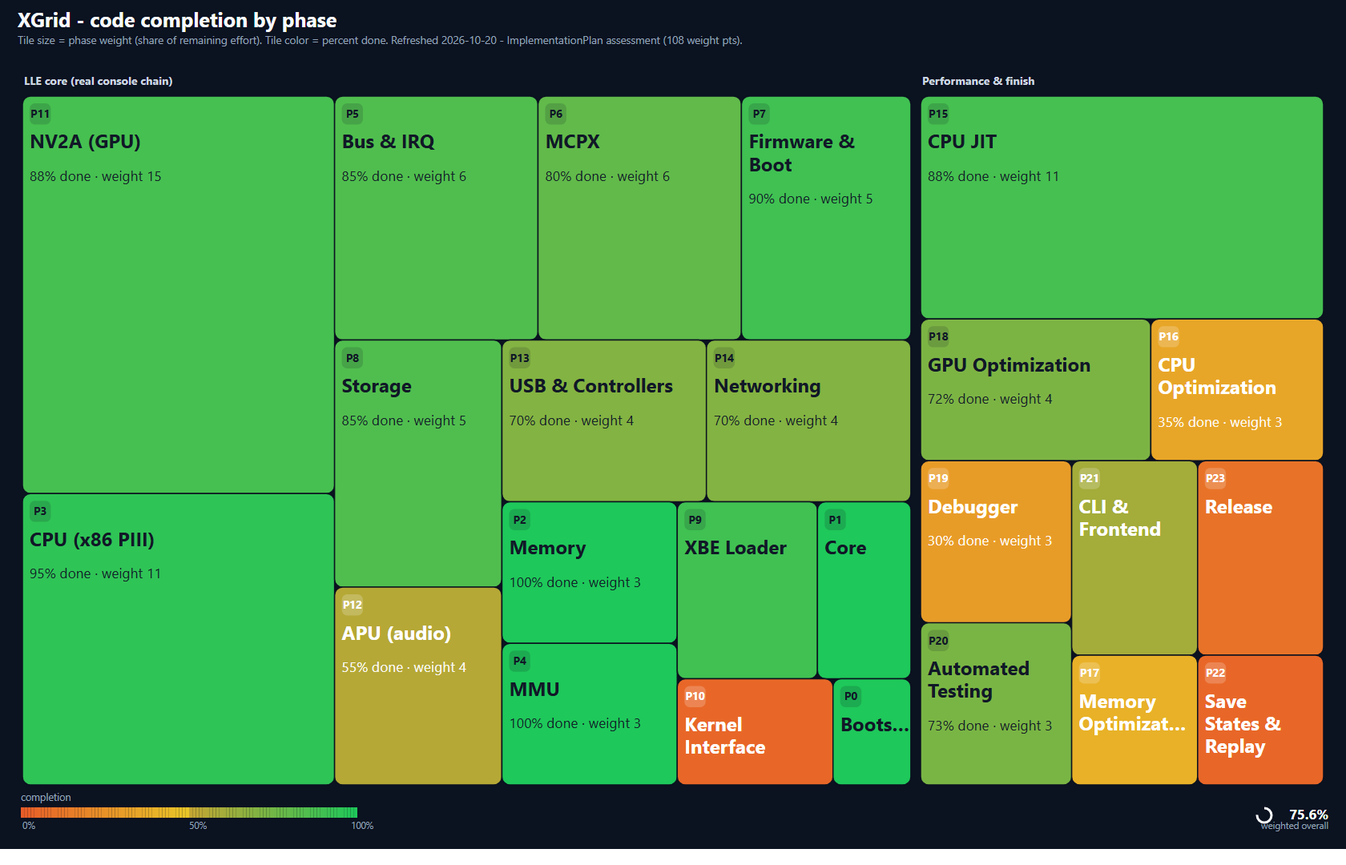
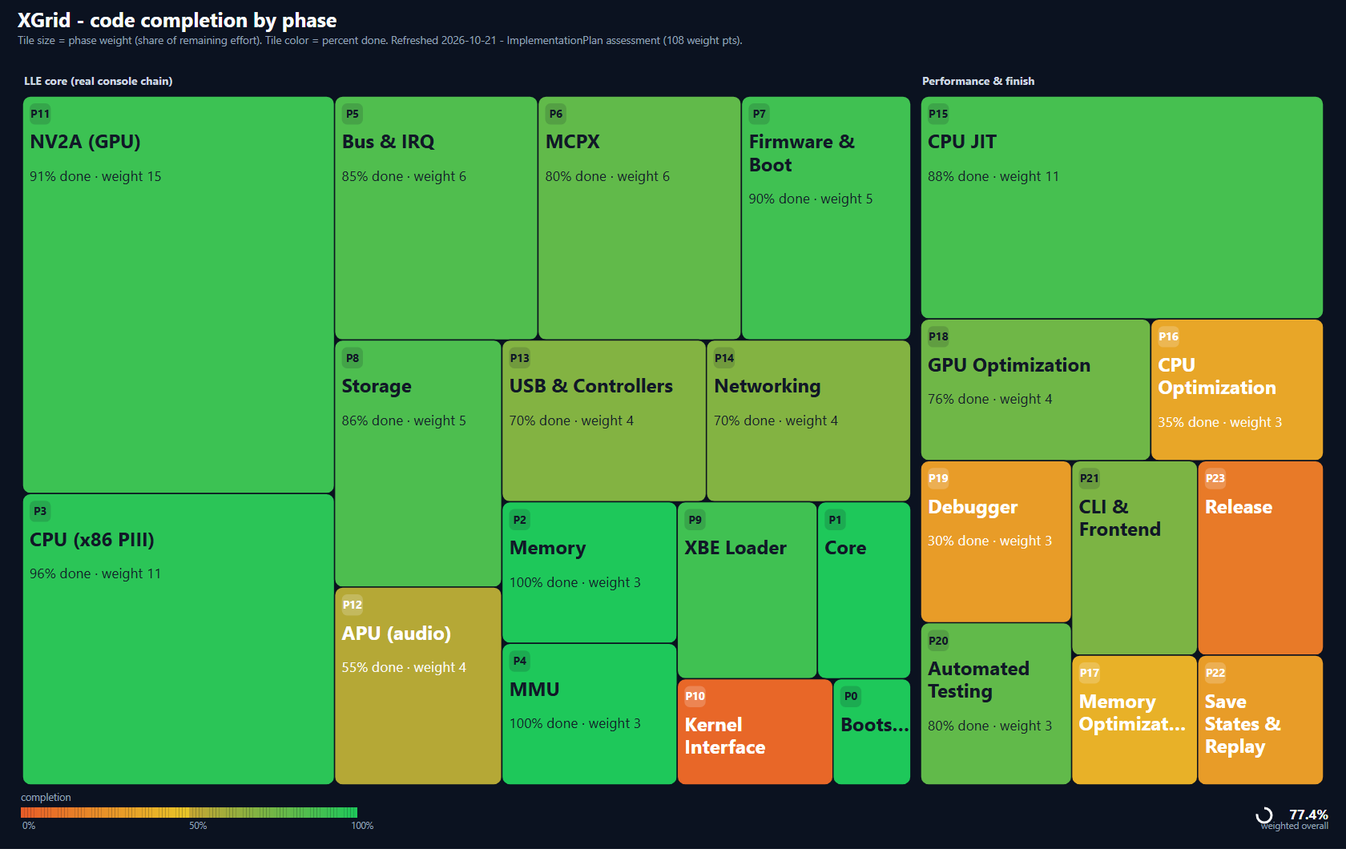
docs: refresh the completion assessment and treemap (77.4%, 1812 tests)

Changed region(s): [[0.7738, 0.5194, 0.9905, 0.9167]]

diff --git a/tools/completion-graph/completion-treemap.html b/tools/completion-graph/completion-treemap.html
@@ -12,22 +12,22 @@
 <svg xmlns='http://www.w3.org/2000/svg' width='1680' height='1060' viewBox='0 0 1680 1060' font-family='Segoe UI, Segoe UI Emoji, sans-serif'>
 <rect width='1680' height='1060' fill='#0B1220'/>
 <text x='22' y='34' font-size='25' font-weight='700' fill='#F8FAFC'>XGrid - code completion by phase</text>
-<text x='22' y='55' font-size='13.5' fill='#94A3B8'>Tile size = phase weight (share of remaining effort). Tile color = percent done. Refreshed 2026-10-20 - ImplementationPlan assessment (108 weight pts).</text>
+<text x='22' y='55' font-size='13.5' fill='#94A3B8'>Tile size = phase weight (share of remaining effort). Tile color = percent done. Refreshed 2026-10-21 - ImplementationPlan assessment (108 weight pts).</text>
 <text x='30' y='106' font-size='14' font-weight='700' fill='#CBD5E1'>LLE core (real console chain)</text>
 <text x='1151' y='106' font-size='14' font-weight='700' fill='#CBD5E1'>Performance &amp; finish</text>
-<g class='tile' data-p='11' data-name='NV2A (GPU)' data-done='88' data-weight='15'>
-<rect x='28' y='120' width='389.6' height='496.2' rx='10' fill='#46C050' stroke='#0B1220' stroke-width='1.5'/>
+<g class='tile' data-p='11' data-name='NV2A (GPU)' data-done='91' data-weight='15'>
+<rect x='28' y='120' width='389.6' height='496.2' rx='10' fill='#3CC253' stroke='#0B1220' stroke-width='1.5'/>
 <rect x='37' y='129' width='26.4' height='26.4' rx='6.6' fill='rgba(17,24,39,0.16)'/>
 <text x='50.2' y='147' font-size='13.7' font-weight='700' fill='#111827' text-anchor='middle'>P11</text>
 <text x='37' y='185.4' font-size='24' font-weight='700' fill='#111827'>NV2A (GPU)</text>
-<text x='37' y='226.1' font-size='17.3' opacity='0.94' fill='#111827'>88% done &#183; weight 15</text>
+<text x='37' y='226.1' font-size='17.3' opacity='0.94' fill='#111827'>91% done &#183; weight 15</text>
 </g>
-<g class='tile' data-p='3' data-name='CPU (x86 PIII)' data-done='95' data-weight='11'>
-<rect x='28' y='616.2' width='389.6' height='363.8' rx='10' fill='#2FC456' stroke='#0B1220' stroke-width='1.5'/>
+<g class='tile' data-p='3' data-name='CPU (x86 PIII)' data-done='96' data-weight='11'>
+<rect x='28' y='616.2' width='389.6' height='363.8' rx='10' fill='#2BC557' stroke='#0B1220' stroke-width='1.5'/>
 <rect x='37' y='625.2' width='26.4' height='26.4' rx='6.6' fill='rgba(17,24,39,0.16)'/>
 <text x='50.2' y='643.1' font-size='13.7' font-weight='700' fill='#111827' text-anchor='middle'>P3</text>
 <text x='37' y='681.6' font-size='24' font-weight='700' fill='#111827'>CPU (x86 PIII)</text>
-<text x='37' y='722.2' font-size='17.3' opacity='0.94' fill='#111827'>95% done &#183; weight 11</text>
+<text x='37' y='722.2' font-size='17.3' opacity='0.94' fill='#111827'>96% done &#183; weight 11</text>
 </g>
 <g class='tile' data-p='5' data-name='Bus &amp; IRQ' data-done='85' data-weight='6'>
 <rect x='417.6' y='120' width='253.9' height='304.6' rx='10' fill='#50BE4E' stroke='#0B1220' stroke-width='1.5'/>
@@ -51,12 +51,12 @@
 <text x='934.4' y='213.7' font-size='24' font-weight='700' fill='#111827'>Boot</text>
 <text x='934.4' y='254.4' font-size='17.3' opacity='0.94' fill='#111827'>90% done &#183; weight 5</text>
 </g>
-<g class='tile' data-p='8' data-name='Storage' data-done='85' data-weight='5'>
-<rect x='417.6' y='424.6' width='208.8' height='308.6' rx='10' fill='#50BE4E' stroke='#0B1220' stroke-width='1.5'/>
+<g class='tile' data-p='8' data-name='Storage' data-done='86' data-weight='5'>
+<rect x='417.6' y='424.6' width='208.8' height='308.6' rx='10' fill='#4DBE4F' stroke='#0B1220' stroke-width='1.5'/>
 <rect x='426.6' y='433.6' width='26.4' height='26.4' rx='6.6' fill='rgba(17,24,39,0.16)'/>
 <text x='439.8' y='451.5' font-size='13.7' font-weight='700' fill='#111827' text-anchor='middle'>P8</text>
 <text x='426.6' y='490' font-size='24' font-weight='700' fill='#111827'>Storage</text>
-<text x='426.6' y='530.7' font-size='17.3' opacity='0.94' fill='#111827'>85% done &#183; weight 5</text>
+<text x='426.6' y='530.7' font-size='17.3' opacity='0.94' fill='#111827'>86% done &#183; weight 5</text>
 </g>
 <g class='tile' data-p='12' data-name='APU (audio)' data-done='55' data-weight='4'>
 <rect x='417.6' y='733.1' width='208.8' height='246.9' rx='10' fill='#B5A836' stroke='#0B1220' stroke-width='1.5'/>
@@ -125,12 +125,12 @@
 <text x='1158' y='185.4' font-size='24' font-weight='700' fill='#111827'>CPU JIT</text>
 <text x='1158' y='226.1' font-size='17.3' opacity='0.94' fill='#111827'>88% done &#183; weight 11</text>
 </g>
-<g class='tile' data-p='18' data-name='GPU Optimization' data-done='72' data-weight='4'>
-<rect x='1149' y='398.2' width='287.4' height='177.1' rx='10' fill='#7CB444' stroke='#0B1220' stroke-width='1.5'/>
+<g class='tile' data-p='18' data-name='GPU Optimization' data-done='76' data-weight='4'>
+<rect x='1149' y='398.2' width='287.4' height='177.1' rx='10' fill='#6FB747' stroke='#0B1220' stroke-width='1.5'/>
 <rect x='1158' y='407.2' width='26.4' height='26.4' rx='6.6' fill='rgba(17,24,39,0.16)'/>
 <text x='1171.2' y='425.2' font-size='13.7' font-weight='700' fill='#111827' text-anchor='middle'>P18</text>
 <text x='1158' y='463.6' font-size='24' font-weight='700' fill='#111827'>GPU Optimization</text>
-<text x='1158' y='504.3' font-size='17.3' opacity='0.94' fill='#111827'>72% done &#183; weight 4</text>
+<text x='1158' y='504.3' font-size='17.3' opacity='0.94' fill='#111827'>76% done &#183; weight 4</text>
 </g>
 <g class='tile' data-p='16' data-name='CPU Optimization' data-done='35' data-weight='3'>
 <rect x='1436.4' y='398.2' width='215.6' height='177.1' rx='10' fill='#E8A628' stroke='#0B1220' stroke-width='1.5'/>
@@ -147,23 +147,23 @@
 <text x='1158' y='640.7' font-size='24' font-weight='700' fill='#FFFFFF'>Debugger</text>
 <text x='1158' y='681.4' font-size='17.3' opacity='0.94' fill='#FFFFFF'>30% done &#183; weight 3</text>
 </g>
-<g class='tile' data-p='20' data-name='Automated Testing' data-done='73' data-weight='3'>
-<rect x='1149' y='777.6' width='188.6' height='202.4' rx='10' fill='#79B544' stroke='#0B1220' stroke-width='1.5'/>
+<g class='tile' data-p='20' data-name='Automated Testing' data-done='80' data-weight='3'>
+<rect x='1149' y='777.6' width='188.6' height='202.4' rx='10' fill='#61BA4A' stroke='#0B1220' stroke-width='1.5'/>
 <rect x='1158' y='786.6' width='26.4' height='26.4' rx='6.6' fill='rgba(17,24,39,0.16)'/>
 <text x='1171.2' y='804.6' font-size='13.7' font-weight='700' fill='#111827' text-anchor='middle'>P20</text>
 <text x='1158' y='843' font-size='24' font-weight='700' fill='#111827'>Automated</text>
 <text x='1158' y='871.4' font-size='24' font-weight='700' fill='#111827'>Testing</text>
-<text x='1158' y='912.1' font-size='17.3' opacity='0.94' fill='#111827'>73% done &#183; weight 3</text>
+<text x='1158' y='912.1' font-size='17.3' opacity='0.94' fill='#111827'>80% done &#183; weight 3</text>
 </g>
-<g class='tile' data-p='21' data-name='CLI &amp; Frontend' data-done='60' data-weight='3'>
-<rect x='1337.6' y='575.3' width='157.2' height='242.8' rx='10' fill='#A4AC3A' stroke='#0B1220' stroke-width='1.5'/>
-<rect x='1346.6' y='584.3' width='26.4' height='26.4' rx='6.6' fill='rgba(255,255,255,0.20)'/>
-<text x='1359.8' y='602.2' font-size='13.7' font-weight='700' fill='#FFFFFF' text-anchor='middle'>P21</text>
-<text x='1346.6' y='640.7' font-size='24' font-weight='700' fill='#FFFFFF'>CLI &amp;</text>
-<text x='1346.6' y='669' font-size='24' font-weight='700' fill='#FFFFFF'>Frontend</text>
+<g class='tile' data-p='21' data-name='CLI &amp; Frontend' data-done='72' data-weight='3'>
+<rect x='1337.6' y='575.3' width='157.2' height='242.8' rx='10' fill='#7CB444' stroke='#0B1220' stroke-width='1.5'/>
+<rect x='1346.6' y='584.3' width='26.4' height='26.4' rx='6.6' fill='rgba(17,24,39,0.16)'/>
+<text x='1359.8' y='602.2' font-size='13.7' font-weight='700' fill='#111827' text-anchor='middle'>P21</text>
+<text x='1346.6' y='640.7' font-size='24' font-weight='700' fill='#111827'>CLI &amp;</text>
+<text x='1346.6' y='669' font-size='24' font-weight='700' fill='#111827'>Frontend</text>
 </g>
-<g class='tile' data-p='23' data-name='Release' data-done='11' data-weight='3'>
-<rect x='1494.8' y='575.3' width='157.2' height='242.8' rx='10' fill='#E87328' stroke='#0B1220' stroke-width='1.5'/>
+<g class='tile' data-p='23' data-name='Release' data-done='14' data-weight='3'>
+<rect x='1494.8' y='575.3' width='157.2' height='242.8' rx='10' fill='#E87A28' stroke='#0B1220' stroke-width='1.5'/>
 <rect x='1503.8' y='584.3' width='26.4' height='26.4' rx='6.6' fill='rgba(255,255,255,0.20)'/>
 <text x='1517' y='602.2' font-size='13.7' font-weight='700' fill='#FFFFFF' text-anchor='middle'>P23</text>
 <text x='1503.8' y='640.7' font-size='24' font-weight='700' fill='#FFFFFF'>Release</text>
@@ -175,8 +175,8 @@
 <text x='1346.6' y='883.5' font-size='24' font-weight='700' fill='#FFFFFF'>Memory</text>
 <text x='1346.6' y='911.8' font-size='24' font-weight='700' fill='#FFFFFF'>Optimizat…</text>
 </g>
-<g class='tile' data-p='22' data-name='Save States &amp; Replay' data-done='5' data-weight='2'>
-<rect x='1494.8' y='818.1' width='157.2' height='161.9' rx='10' fill='#E86728' stroke='#0B1220' stroke-width='1.5'/>
+<g class='tile' data-p='22' data-name='Save States &amp; Replay' data-done='30' data-weight='2'>
+<rect x='1494.8' y='818.1' width='157.2' height='161.9' rx='10' fill='#E89C28' stroke='#0B1220' stroke-width='1.5'/>
 <rect x='1503.8' y='827.1' width='26.4' height='26.4' rx='6.6' fill='rgba(255,255,255,0.20)'/>
 <text x='1517' y='845.1' font-size='13.7' font-weight='700' fill='#FFFFFF' text-anchor='middle'>P22</text>
 <text x='1503.8' y='883.5' font-size='24' font-weight='700' fill='#FFFFFF'>Save</text>
@@ -287,8 +287,8 @@
 <text x='28' y='1035' font-size='11.5' fill='#94A3B8'>0%</text>
 <text x='236' y='1035' font-size='11.5' fill='#94A3B8'>50%</text>
 <text x='438' y='1035' font-size='11.5' fill='#94A3B8'>100%</text>
-<circle cx='1578' cy='1018' r='9' fill='none' stroke='#F8FAFC' stroke-width='3' stroke-dasharray='42.8 13.8' transform='rotate(-90 1578 1018)'/>
-<text x='1658' y='1023' font-size='17' font-weight='700' fill='#F8FAFC' text-anchor='end'>75.6%</text>
+<circle cx='1578' cy='1018' r='9' fill='none' stroke='#F8FAFC' stroke-width='3' stroke-dasharray='43.8 12.8' transform='rotate(-90 1578 1018)'/>
+<text x='1658' y='1023' font-size='17' font-weight='700' fill='#F8FAFC' text-anchor='end'>77.4%</text>
 <text x='1658' y='1035' font-size='11.5' fill='#94A3B8' text-anchor='end'>weighted overall</text>
 </svg>
 

diff --git a/ImplementationPlan.md b/ImplementationPlan.md
@@ -3377,7 +3377,7 @@ Every phase lists: goal, prerequisites, tasks, files/interfaces, tests, acceptan
 and the reference notes to consult. Phases are ordered; do not start a later phase on an unstable
 earlier one except where explicitly parallel (Track B/C).
 
-## Implementation status (last updated 2026-10-18; wave-15 concluded, tools/wave retired; XboxWiki findings integrated below)
+## Implementation status (last updated 2026-10-21; wave-15 concluded, tools/wave retired; XboxWiki findings integrated below)
 
 | Phase | Status | Notes |
 |---|---|---|
@@ -3405,12 +3405,12 @@ filtering, TEXADDRESS V bit, BRDF detail, Vulkan/OpenGL backends
 | 12 — APU | **Partial** | `XGrid.Audio/McpxApuDevice`: 512 KB window at 0xFE800000, xemu `apu.c`/`vp.c`-faithful register model (ISTS/IEN + `update_irq` gating, FECTL traps, FEDECMETH/FEDECPARAM FE messages, FEMEMADDR/FEMEMDATA magic write, VP PIO_FREE=0x80, VOICE_ON/OFF, voice-list regs), notifier/voice-state writes to guest RAM, frame-quantized `SE2FE_IDLE_VOICE` delivery (`Advance`, 256 samples @ 48 kHz), PCI IRQ wired to PIC; VP voice processor DONE (§107: PIO methods, guest-RAM voice state, SSL advance, notifiers + idle voice; 007's PlayMPC streams complete through the real advance callback — the `0x20FC1` drain gate PASSED). Remaining: DSP cores (register-only; not yet needed), mixing/resampling, host output |
 | 13 — USB & Controllers | **Partial** | OHCI schedule engine (control/bulk/periodic, done-queue/WDH, §54), xemu-faithful USB hub chain (4-port daughterboard hub -> 3-port controller hub -> XID, §69), `XidGamepad` with latched + step-timed `--pad` injection; **the guest's XPP stack now opens the pad and polls `GetState` every frame; D-pad navigates the menu, A-edge activation fires `0x1859D` (§§69–70)**; scripted `--pad-script` sequences (§74). Remaining: memory units/USB storage class, more device types |
 | 14 — Networking | Partial (MMIO + engine) | nvnet MMIO + per-reg histograms (§52–53, §62) + P0/P1 packet engine (§84: ring latches, IRQ4, TX walker + loopback backend, CLI counters) + P2/P3 (§88: RX filter/DMA + RX/RX_NOBUF IRQs, link toggle + 250 ms autoneg + MIIEVENT, socket user-mode backend behind `--net-backend` with loopback default, `--net-inject`/`--net-link`, 30 new tests); guest init-only steady state preserved, 986 tests |
-| 15–23 | Partial | JIT slices landed (profiler §128, fetch-fast §131, decode cache default-on §§134/137, block executor §136, semspec slices §§139–170, memory-path slices §§161–165, E1–E3 emission trial wall-neutral §§171–179b); **fast-mode JIT track §§190–199o** (`--jit` DynamicMethod engine 99% served, ktest 3.76×; C2/C3 raw emitter `--jit-raw` bit-exact on both titles at 1B, direct chaining, C3-x hot shapes — 8.8/31.6 ns per served member; C3-y/xlat/flip probes closed neutral); **rasterizer campaign §§180–187 and Track B §§199p/§200** (raster menu 24.0→13.3-15.1 s, triangle 6.19→3.31-3.45 s, no longer the dominant wall; all SHAs exact); V1 snapshot framework (§§99–101); GL backend slices 1–3 (§§113,117,122); `--window` present (§184); **Track B §204 present path + §205 draw-command batching** (GL submission 6.87 → 1.05 s, per-flip readback opt-in, 59,437 instanced draws replace 2.76M single draws, both 1B GL frames byte-identical). Codegen IR, DSP mixing/host output, debugger GUI, save-state v2, frontend, release packaging pending |
+| 15–23 | Partial | JIT slices landed (profiler §128, fetch-fast §131, decode cache default-on §§134/137, block executor §136, semspec slices §§139–170, memory-path slices §§161–165, E1–E3 emission trial wall-neutral §§171–179b); **fast-mode JIT track §§190–199o** (`--jit` DynamicMethod engine 99% served, ktest 3.76×; C2/C3 raw emitter `--jit-raw` bit-exact on both titles at 1B, direct chaining, C3-x hot shapes — 8.8/31.6 ns per served member; C3-y/xlat/flip probes closed neutral); **rasterizer campaign §§180–187 and Track B §§199p/§200** (raster menu 24.0→13.3-15.1 s, triangle 6.19→3.31-3.45 s, no longer the dominant wall; all SHAs exact); V1 snapshot framework (§§99–101); GL backend slices 1–3 (§§113,117,122); `--window` present (§184); **Track B §204 present path + §205 draw-command batching** (GL submission 6.87 → 1.05 s, per-flip readback opt-in, 59,437 instanced draws replace 2.76M single draws, both 1B GL frames byte-identical); **post-§205 product/finish slices §§206–225** (XInput pad + save states §206, display model §208, cubemap/TEXFILTER §§209/210, fixed-function vertex + lighting §§213/215, PTIMER §216, per-title overrides + EEPROM §217/§219d, GL sampler parity + replace-mode composition §§219/220, the GPU renderer as a frontend setting §§221/223, CHD title id §222, per-title renderer §224, CPU correctness campaign §225). Codegen IR, DSP mixing/host output, debugger GUI, release packaging pending |
 
-Current test baseline: **1538 tests passing** (2026-10-20, `dotnet test XGrid.sln -c Release`; the previous per-project split predates the fast-mode JIT campaign and is not restated here);
-`dotnet build -c Release` clean; `dotnet format --verify-no-changes` clean (verified 2026-10-16).
+Current test baseline: **1812 tests passing** (2026-10-21, `dotnet test XGrid.sln -c Release --no-build`; per project: Cpu 667, Nv2a 395, Bus 263, GpuGl 92, Memory 74, Integration 72, Storage 54, Frontend 47, Core 39, Audio 36, Input 29, XboxFs 28, Graphics 10, Xbe 6);
+`dotnet build -c Release` clean (0 warnings); `dotnet format --verify-no-changes` clean (verified 2026-10-21).
 
-## Project completion assessment (2026-10-19; refreshed 2026-10-20 for the fast-mode JIT track §§190–199f, the C3 raw-emitter correctness campaigns §§199g–§199i, the §199k state hoist, the §199l/§199m chaining re-land and §199o C3-x, the Track B rasterizer slices §199p/§200, the GL window §184, the idle-skip measurement §185, the §204 Track B present-path removal + Track E corpus harness and the §205 draw-command batching)
+## Project completion assessment (2026-10-19; refreshed 2026-10-21 for the Track B GL slices §§219–220, the frontend GPU renderer + per-title renderer + threaded snapshots §§221–224, the CPU correctness campaign §225, the fixed-function vertex stage and its lighting §§213/215, PTIMER §216, the display model §208, the compatibility corpus at 20 rows over 16 samples §§207–210, Track P (XInput pad + save states §206, per-title overrides + persistent EEPROM §217/§219d) and the APU XGSCNT fix §218; earlier refreshes covered §§184–205)
 
 Weighted estimate over the 24 plan phases (0–23). Phase fractions reflect
 implemented-vs-planned surface (behavior, tests, reference parity), and the
@@ -3422,29 +3422,29 @@ dominate). This is an estimate, not a metric — treat it as ±5 points.
 | 0 Bootstrap | 1 | 100% | — |
 | 1 Core | 2 | 100% | — |
 | 2 Memory | 3 | 100% | — |
-| 3 CPU | 11 | 95% | rare-op audit; x87 double-rounding limitation |
+| 3 CPU | 11 | 96% | x87 double-rounding limitation; the §225 independent x86 differential (333 → 629 cases) closed the rare-op defects it found (PMINSW/PMAXSW sign, PSRAW/PSRAD saturation, XLAT, 16-bit `[SI]`/`[DI]`, x87 NaN payloads, FUCOM quiet-NaN IE, FSQRT-negative C2, MIN/MAX equal-operand source); no SSE2 by design (the CPU is a Pentium III) |
 | 4 MMU | 3 | 100% | — |
 | 5 Bus & IRQ | 6 | 85% | DMA helper, ELCR, Super-I/O, GPE |
 | 6 MCPX | 6 | 80% | flash command set, GPE/GPIO, Super I/O |
 | 7 Firmware & Boot | 5 | 90% | ATA-security edge cases; guest XBE-loader items |
-| 8 Storage | 5 | 85% | writable host-side FATX; DVD media edge cases |
+| 8 Storage | 5 | 86% | writable host-side FATX; DVD media edge cases. §222 added `XdvdfsSectorReader` (XDVDFS over any `IDvdImage`, so a CHD resolves its XBE title id) |
 | 9 XBE Loader | 3 | 90% | host-side relocation/launch paths |
 | 10 Kernel Interface | 2 | 5% | whole phase (HLE ordinals) — deferred, LLE-first |
-| 11 NV2A | 15 | 88% | mipmap LOD + DXT decode; PROJECT2D non-cube divide; DOT_STR_3D dim==3; border/mip/filtering; TEXADDRESS V bit; BRDF detail; Vulkan/OpenGL backends (16.6–16.7) |
-| 12 APU | 4 | 55% | DSP, voice processing, mixing, resampling, host output. **The 0.8.137 reference now ships the full GP/EP DSP interpreter + optional JIT (`hw/xbox/mcpx/apu/dsp/`, facts only) — the primary oracle for the DSP/mixing work**. Host output and mixing are **Track P** (2026-10-20); the DSP model is the first fidelity item gated by Track E |
+| 11 NV2A | 15 | 91% | mipmap LOD + DXT decode; DOT_STR_3D dim==3; BRDF detail and the remaining B3 method rows; Vulkan backend (16.6–16.7). Landed since the last refresh: the **fixed-function vertex stage + its lighting** (§§213/215, compatibility gap 6 — the dashboard runs 22,207 of its 33,632 draws/1B through it, opt-in `--ffp`), **PTIMER** 0.8.137 (§216: 61-bit time with writable offset, `ALARM_0` re-arm, `NV_PMC_INTR_0_PTIMER`), the **display-controller scanout model** (§208: `NV_PRMCIO` CRTC decode, `TryCopyDisplayFrame`), backface culling (§206g), the **cubemap face extent** fix + byte-order texture formats (§§207h/209g), **TEXFILTER** on both backends (§§209/210/219a/220c — the convolution runs only for MIN = `CONVOLUTION_2D_LOD0`), GL `PROJECT2D` divide + clip origin (§220c), one-writer replace-mode composition (§220d), and the Z24S8 clear-word layout verified (§214) |
+| 12 APU | 4 | 55% | GP/EP DSP execution, mixing/resampling, host output. **The 0.8.137 reference now ships the full GP/EP DSP interpreter + optional JIT (`hw/xbox/mcpx/apu/dsp/`, facts only) — the primary oracle for the DSP/mixing work**. Host output and mixing are **Track P** (2026-10-20); the DSP model is the first fidelity item gated by Track E. The VP voice processor and `NV_PAPU_XGSCNT` are correct (§107, §218) |
 | 13 USB & Controllers | 4 | 70% | memory units/storage class, more device types |
 | 14 Networking | 4 | 70% | first-real-frame validation, TCP proxy |
 | 15 CPU JIT | 11 | 88% | semspec slices 1–20+memory-path 1–4+dispatch 5–6+shape 7 opt-in `--spec-exec`; decode/TLB caches + block executor (§§131,134,136); codegen E1–E3 opt-in (§§171–179b); **fast-mode track §§190–194: `--jit` whole-block DynamicMethod engine (dual-mode contract), lost-wakeup fix, coverage campaign (99% served), menu 1B bit-exact, ktest 2B 3.76× CPU-bound, quiet-host fast medians triangle 10.63 s / menu 45.62 s after C2+D3b (§199d)**; **C3 raw emitter §§199e–§199i: `--jit-raw` opt-in, per-block native x86-64 (fixed host registers, flags in host FLAGS, inline translate-cache probe, spec-handler trampoline); 17 latent bugs fixed across three correctness campaigns; 59/59 JitTests with the raw path forced on; BOTH title 1B IL-vs-raw differentials bit-exact (menu `660CA11B…/F5D61C94…`, triangle `A2DCA55F…/7DAB63EB…`, every counter identical); ahead of IL on CPU serving time after the §199k state hoist; §199l direct chaining LANDED after the §199m fault-contract fix (helpers catch/record/report instead of unwinding through the hand-emitted frame): 1B medians of 3 interleaved pairs triangle wall -12.0% / `outerMs` -28.6%, menu wall -13.1% / `outerMs` -14.2%, SHAs and every counter identical to IL; 625/625 CPU tests x10, ktest XGrid leg byte-identical at 792,800,535 steps**; **§199o C3-x hot-shape native encoding LANDED (helper-routed members 24.65M -> 1.81M triangle, 122.65M -> 5.57M menu; 1B wall -10.8% triangle / -7.2% menu on sw, -14.1% / -8.0% on gl+replace; 8.8 ns/served member triangle / 31.6 ns menu — the §199n target hit); C3-y bookkeeping trim and the 1024-slot data xlat cache measured NEUTRAL and reverted, the flip-pacing probe closed as no-bug**; **C3 frozen 2026-10-20 (course correction): only the operator's `--jit`/`--jit-raw` default-flip decision remains**; threshold auto-tune and E3-2 are deferred |
 | 16 CPU Optimization | 3 | 35% | benchmark-driven tuning; `boot --bench` + `jit-bench.ps1` medians + `--jit-tally`/`--gpu-time` diagnostics and quiet-host accounting in place (§§191–194); profile-driven next |
 | 17 Memory Optimization | 2 | 40% | RAM-direct/wide-access (§161), Bytes bulk (§162), xlat cache (§163), rep-string span (§165); remaining RMW paths |
-| 18 GPU Optimization | 4 | 72% | rasterizer bit-exact specialization (§§180–187: fast combiner configs, planned evaluator, sampler plans, blend specialization, lean interpolation; menu 119→24.6 s, triangle 54.7→9.9 s); neutral experiments reverted (§183/§186); GL backend pairing measured parity-to-worse at 1B (§194 am.3 — sw stays default); measured at 48% (menu) / 39% (triangle) of the 1B sw wall after C3 (§199n), then **§199p: O2 `IGpuMemoryFast` GPU-memory fast lane landed (-2.0% both titles, 3/3), then O4 branchless Morton spread (-5.9% triangle 3/3, -1.2% menu 2/3); §200: O3b per-fill fast sampler + O1 compiled k1 modulate (245.8M px) and k2/k3 lighting fills, 1B rasterPsh menu 24.0 → 13.3-15.1 s (-44%), triangle 6.19 → 3.31-3.45 s (-45%), interleaved wall -21.9% / -23.5%, quiet host 36.01 s / 9.13 s; accurate-mode raster triangle 6.90 → 3.63 s (-47%) with RAM/CPU SHAs and every counter exact; O5 counter batching and the cube-stride hoist measured neutral; the rasterizer is no longer the dominant wall**; **§204 present path measured and fixed: the per-flip readback is opt-in (`--frame`/`--frame-first`; 0 in normal runs), each draw is one packed `uTri[25]` uniform + one `glDrawArrays` (positions by `gl_VertexID`, no VBO upload), and the per-draw key strings/divisions/binds plus the per-method seam call are gone — `drawMs` 12.55 → 2.41 s (-81%), menu `gl+replace` 63.09 → 45.25 s (-20.5% same-window, 3/3), triangle 10.26 → 9.89 s; 1B GL goldens exact (`6BE6325F…` / `3FC4B419…`)**; **§205 draw-command batching landed: a PGRAPH primitive flush averages 82 triangles, so the backend stages a whole command and submits it with one `glDrawArraysInstanced` (per-triangle block = a uniform-array slot selected by `gl_InstanceID` through a flat varying, capacity 64 from the queried uniform budget, `XGRID_GL_NO_BATCH=1` forces the old path) — `drawMs` 1971 → 1045 ms (-47%, 3/3 same-binary), 59,437 instanced draws replace 2.76M single draws, menu `gl+replace` wall 42.20 → 40.43 s (-4.2%, 3/3), both 1B GL frame goldens byte-identical; the remaining menu submission is ~0.8 s of block packing (not GL calls) and the ~0.5-0.9 s texture fingerprint, both deferred with measured ceilings**; **the phase's own checklist is now closed** (command generation, submission, shader compilation, texture upload, render-pass creation, synchronization, frame pacing + the six caching techniques - see the phase-18 status block for the per-item evidence); what remains is measured leftovers (per-draw layer bits hybrid/z, ~0.8 s block packing, ~0.5-0.9 s texture fingerprint, O6 row spans demoted, product-path present pacing) - no capability gap; Vulkan/GL backend work stays in P11 |
-| 19 Debugger | 3 | 30% | save states, symbols, GUI |
-| 20 Automated Testing | 3 | 73% | 1538 tests + goldens/median harnesses + randomized emit-inline differential net + 44 JIT differentials (fuzz/IRQ sweeps/faults/paging) + raw-emitter differentials (`RawJitTests` + the §199h delivered-EFLAGS parity, page-table-store-under-watch, exact watch-range-hit and split-member block-exit tests, plus 11 §199o C3-x shape differentials; 59/59 with the raw path forced on) + §199p fast-vs-legacy GPU-memory-lane differential + 8 §200 fast-vs-generic sampler/compiled-fill differentials + the §204 readback-policy live tests + 4 §205 batch-bracket seam tests (fail-pre-fix proven) + ktest smoke; the present-path acceptance script (`scripts/present-path-acceptance.ps1`), the batching A/B (`scripts/batch-205-ab.ps1`) and the boot-to-first-frame harness (`scripts/boot-to-first-frame.ps1`, six measured corpus rows (three samples, both backends)) automate the ceremony; fuzzing; **wider compatibility corpus is Track E (`docs/compatibility.md` + the harness; 6 measured rows across 3 samples, of the ≥8 M-B target, the additional rows still blocked on the nxdk toolchain)** |
-| 21 CLI & Frontend | 3 | 63% | opt-in `--window` live present sink (§184); **Avalonia frontend landed `ea8b38f`** (keyboard-only, silent, software default) **with an opt-in host-OpenGL renderer (§220) and thread-correct snapshot save/load**; §204 CLI observability: `--frame-first` (first presented frame + step anchor), `readback=on|off` and `methods=` in the boot summary; Track P adds host audio, physical pad, save states, per-title config |
-| 22 Save States & Replay | 2 | 5% | snapshot/replay — **Track P V1 next** (`.xgs` is versioned: CPU/RAM/device v2→v3 for NV2A and audio) |
-| 23 Release | 3 | 11% | packaging, installer; **compatibility list exists — `docs/compatibility.md` with six measured rows across three samples (both backends), reproducible commands and the `scripts/boot-to-first-frame.ps1` harness (Track E; M-B wants ≥8 rows, ≥2 beyond dashboard/triangle/ktest)** |
+| 18 GPU Optimization | 4 | 76% | rasterizer bit-exact specialization (§§180–187: fast combiner configs, planned evaluator, sampler plans, blend specialization, lean interpolation; menu 119→24.6 s, triangle 54.7→9.9 s); neutral experiments reverted (§183/§186); GL backend pairing measured parity-to-worse at 1B (§194 am.3 — sw stays default); measured at 48% (menu) / 39% (triangle) of the 1B sw wall after C3 (§199n), then **§199p: O2 `IGpuMemoryFast` GPU-memory fast lane landed (-2.0% both titles, 3/3), then O4 branchless Morton spread (-5.9% triangle 3/3, -1.2% menu 2/3); §200: O3b per-fill fast sampler + O1 compiled k1 modulate (245.8M px) and k2/k3 lighting fills, 1B rasterPsh menu 24.0 → 13.3-15.1 s (-44%), triangle 6.19 → 3.31-3.45 s (-45%), interleaved wall -21.9% / -23.5%, quiet host 36.01 s / 9.13 s; accurate-mode raster triangle 6.90 → 3.63 s (-47%) with RAM/CPU SHAs and every counter exact; O5 counter batching and the cube-stride hoist measured neutral; the rasterizer is no longer the dominant wall**; **§204 present path measured and fixed: the per-flip readback is opt-in (`--frame`/`--frame-first`; 0 in normal runs), each draw is one packed `uTri[25]` uniform + one `glDrawArrays` (positions by `gl_VertexID`, no VBO upload), and the per-draw key strings/divisions/binds plus the per-method seam call are gone — `drawMs` 12.55 → 2.41 s (-81%), menu `gl+replace` 63.09 → 45.25 s (-20.5% same-window, 3/3), triangle 10.26 → 9.89 s; 1B GL goldens exact (`6BE6325F…` / `3FC4B419…`)**; **§205 draw-command batching landed: a PGRAPH primitive flush averages 82 triangles, so the backend stages a whole command and submits it with one `glDrawArraysInstanced` (per-triangle block = a uniform-array slot selected by `gl_InstanceID` through a flat varying, capacity 64 from the queried uniform budget, `XGRID_GL_NO_BATCH=1` forces the old path) — `drawMs` 1971 → 1045 ms (-47%, 3/3 same-binary), 59,437 instanced draws replace 2.76M single draws, menu `gl+replace` wall 42.20 → 40.43 s (-4.2%, 3/3), both 1B GL frame goldens byte-identical; the remaining menu submission is ~0.8 s of block packing (not GL calls) and the ~0.5-0.9 s texture fingerprint, both deferred with measured ceilings**; **the phase's own checklist is now closed** (command generation, submission, shader compilation, texture upload, render-pass creation, synchronization, frame pacing + the six caching techniques - see the phase-18 status block for the per-item evidence); what remains is measured leftovers (per-draw layer bits hybrid/z, ~0.8 s block packing, ~0.5-0.9 s texture fingerprint, O6 row spans demoted, product-path present pacing) - no capability gap; Vulkan/GL backend work stays in P11. **§210–§224 (2026-10-21/22):** the TEXFILTER convolution gate made the opt-in flag free (1B menu 32.18 s vs 32.22 s legacy, `compiled=` identical) and both compiled fills serve the tent; the GL backend gained TEXFILTER parity (§219a), `ClearCore` lifts the draw write masks (§219c), the sampler decodes the address word and both fragment axes use the clip origin (§220b/§220c), and a declined draw composes the frame into guest RAM as one writer per frame (§220d); through the real frontend session the host-GPU path runs 1.121B/1.106B steps vs software's 1.014B/1.021B in a 40 s interleaved pair (+9.8%/+8.2%, §223), and the CLI's 1B menu leg is 33.95 → 23.46 s (-30.9%, §221) |
+| 19 Debugger | 3 | 30% | symbols, GUI/trace viewer (save states are phase 22's and landed) |
+| 20 Automated Testing | 3 | 80% | 1812 tests (Cpu 667, Nv2a 395, Bus 263, GpuGl 92, Memory 74, Integration 72, Storage 54, Frontend 47, Core 39, Audio 36, XboxFs 28, Input 29, Graphics 10, Xbe 6) + goldens/median harnesses + randomized emit-inline differential net + 44 JIT differentials (fuzz/IRQ sweeps/faults/paging) + raw-emitter differentials (`RawJitTests` + the §199h delivered-EFLAGS parity, page-table-store-under-watch, exact watch-range-hit and split-member block-exit tests, plus 11 §199o C3-x shape differentials; 59/59 with the raw path forced on) + §199p fast-vs-legacy GPU-memory-lane differential + 8 §200 fast-vs-generic sampler/compiled-fill differentials + the §204 readback-policy live tests + 4 §205 batch-bracket seam tests (fail-pre-fix proven) + ktest smoke; the present-path acceptance script (`scripts/present-path-acceptance.ps1`), the batching A/B (`scripts/batch-205-ab.ps1`) and the boot-to-first-frame harness (`scripts/boot-to-first-frame.ps1`, `-Corpus`/`-IsoPath`, both backends) plus the frontend smoke harness (`tools/frontend-smoke`) automate the ceremony; **the independent x86 oracle (`tools/cpu-oracle/`, 629 cases against Unicorn/TCG) landed in §225 and is the model for new differentials**; **Track E's matrix is `docs/compatibility.md` — 20 measured rows over 16 samples (plus 3 blocked samples), M-B met**; remaining: fuzzing (decoder/XBE/XDVDFS/FATX/pushbuffer), a real compatibility database |
+| 21 CLI & Frontend | 3 | 72% | opt-in `--window` live present sink (§184); **Avalonia frontend landed `ea8b38f`** and is now a product shell: Settings → Renderer picks software or the host-GPU OpenGL backend (§§221/223 — headless WGL created on the emulation thread, logged fallback, thread-correct snapshot save/load), per-title overrides V2 (`title:XXXXXXXX`, a CHD resolved through the §222 XDVDFS reader) offer `inherit`/`software`/`OpenGL` per title (§§217/219d/224), persistent EEPROM state (`--eeprom-out`), `--ffp`/`--tex-filter` settings, XInput pad merged with the keyboard (§206), save/load UI (F8/F9 + picker), frame stepping (F7/Shift+F7, §220e), and the display follows the renderer (`TryCopyDisplayFrame`, §208); `tests/XGrid.Frontend.Tests` (47 tests) + `tools/frontend-smoke` cover it; §204 CLI observability (`--frame-first`, `readback=on\|off`, `methods=`); remaining: **host audio output** (needs APU GP/EP DSP execution), debugger panes, performance-overlay polish |
+| 22 Save States & Replay | 2 | 30% | snapshot/replay — **V1 save states landed and productized**: `.xgs` covers CPU/RAM/machine scalars plus every registered device, per-device versions (NV2A **v8**, APU **v3** with a v2 fallback, machine section v1), unknown sections skipped on load, and the frontend marshals save/load onto the emulation thread (a load resets backend state; 72 MB round trip with GL attached, §223). Remaining: replay recording (initial state + inputs + timing events), a whole-file checksum, and version migration |
+| 23 Release | 3 | 14% | packaging, installer, licensing review; **compatibility list exists — `docs/compatibility.md` with 20 measured rows over 16 samples (both backends, flag variants), reproducible commands, the `scripts/boot-to-first-frame.ps1` harness and the `scripts/build-nxdk-samples.ps1` toolchain (Track E; M-B met: ≥8 rows, ≥2 beyond dashboard/triangle/ktest)** |
 
-**Result: ~76% complete overall** (weighted: 81.72 of 108 weight-points = 75.7%, recomputed 2026-10-21 after the §220 frontend renderer switch (phase 21 60→63); earlier, recomputed 2026-10-20 after the §204 Track B present path (phase 18 40→45), the §205 draw-command batching (phase 18 45→72 after re-deriving it from the phase's own checklist, phase 20 72→73), the Track E corpus harness (phase 20 71→72), the Avalonia frontend `ea8b38f` (phase 21 52→60) and the compatibility matrix (phase 23 10→11); was 80.02 before the frontend. The 2026-10-20 course correction changed the *order* — Track B/E/P before further Track C work; the score only moves with landed work).
+**Result: ~77% complete overall** (weighted: 83.56 of 108 weight-points = 77.4%, recomputed 2026-10-21 after the §206–§225 refresh: P3 CPU 95→96, P8 Storage 85→86, P11 NV2A 88→91, P18 GPU Optimization 72→76, P20 Automated Testing 73→80, P21 CLI & Frontend 63→72, P22 Save States 5→30 and P23 Release 11→14; was 81.72 = 75.7% after the §220 frontend renderer switch (phase 21 60→63); earlier, recomputed 2026-10-20 after the §204 Track B present path (phase 18 40→45), the §205 draw-command batching (phase 18 45→72 after re-deriving it from the phase's own checklist, phase 20 72→73), the Track E corpus harness (phase 20 71→72), the Avalonia frontend `ea8b38f` (phase 21 52→60) and the compatibility matrix (phase 23 10→11); was 80.02 before the frontend. The 2026-10-20 course correction changed the *order* — Track B/E/P before further Track C work; the score only moves with landed work).
 
 Visual treemap of the table above: `tools/completion-graph/` (SVG + interactive HTML; regenerate with `pwsh -File tools/completion-graph/generate.ps1`).
 By track:
@@ -3453,8 +3453,11 @@ By track:
   1BL -> 2BL -> kernel -> dashboard — boots, renders in color, discovers
   content, saves files, and navigates with a real controller through the
   daughterboard hub topology (§§68–70, §95); the 007 title runs to its
-  audio-drain gate (§98, APU VP/DSP next).
-- **Performance/finish track (phases 15-23): ~55%.** Dominated by the CPU
+  audio-drain gate (§98, APU VP/DSP next). Since the last refresh the NV2A
+  also runs the **fixed-function transform + lighting pipeline** (§§213/215,
+  `--ffp`), the **PTIMER** alarm model (§216), the **display-controller scanout**
+  (§208) and the **TEXFILTER** sampler on both backends (§§209/210/219a/220c).
+- **Performance/finish track (phases 15-23): ~62%.** Dominated by the CPU
   JIT (88% — interpreter with default-on decode cache, opt-in spec/block/
   emit layers, and the chartered fast-mode engine: `--jit` whole-block
   DynamicMethod runners at 99% served, bit-exact on both titles at 1B, ktest
@@ -3464,7 +3467,7 @@ By track:
   at 1B), and §199o C3-x hot-shape native encoding cut helper-routed members
   to 1.81M / 5.57M and per-member cost to 8.8 ns triangle / 31.6 ns menu —
   the §199n target hit; C3-y and the xlat cache measured neutral and were
-  reverted) and by GPU optimization (72% — the software rasterizer is 44-45%
+  reverted) and by GPU optimization (76% — the software rasterizer is 44-45%
   cheaper after §199p O2/O4 and the §200 compiled fills: menu 24.0 →
   13.3-15.1 s, triangle 6.19 → 3.31-3.45 s, no longer the dominant wall,
   with accurate-mode SHAs and every counter exact; §204 then measured and
@@ -3474,20 +3477,32 @@ By track:
   Both scoped Track B slices are in and the phase's checklist is closed; what remains is ~0.8 s of block packing
   and the ~0.5-0.9 s texture fingerprint (measured, deferred);
   row spans (O6) are demoted and the C3-z inline page pair is deferred
-  (2-3% estimate, below its keep bar).
+  (2-3% estimate, below its keep bar). §210–§224 then made the opt-in TEXFILTER
+  free (the convolution gate), gave the GL backend sampler parity, clear-mask
+  parity and one-writer replace-mode composition, and put the renderer behind
+  the frontend setting: CLI 1B menu leg 33.95 → 23.46 s (-30.9%) and in-app
+  throughput +9.8%/+8.2% steps with the same picture.
 - **Product track (2026-10-20, Track P):** the Avalonia frontend landed
-  (`ea8b38f`) but is sw-only, keyboard-only, silent, and stateless. Track P
-  closes it with a host audio sink (APU output), physical gamepad binding,
-  save-state V1, and per-title config — the difference between "a core with a
-  GUI" and an emulator a user can play.
+  (`ea8b38f`) and Track P has since closed most of its gap: physical pad
+  (XInput, §206), save-state V1 with save/load UI (§§206/223), per-title
+  config V2 keyed by XBE title id (§219d/§224, CHD via §222), persistent
+  EEPROM (§217), the renderer as a setting (§221/§223) and frame stepping
+  (§220e). What remains is **host audio output** (it needs APU GP/EP DSP
+  execution, so it is fidelity work with no sink oracle yet), debugger panes
+  and release polish — the difference between "a core with a GUI" and an
+  emulator a user can play is now mostly sound.
 - **Flagship milestone M9 (dashboard boot): ~85%.** Boot, render pipeline
-  (now colored, §95), and the full input path (XPP open -> `GetState`
+  (now colored, §95, and shown through the display-controller scanout since
+  §208), and the full input path (XPP open -> `GetState`
   polling -> menu navigation -> activation) all work; a readable colored
-  menu is live.
+  menu is live. The submenu state-100 pixel-negative and the NV2A method
+  coverage tail are what remain.
 
 Interpretation: the "does the console boot and respond" core is close; the
-long tail is the product path (host GPU present, corpus breadth, audio/input/
-save states) rather than more CPU codegen. JIT/optimization remains a track,
+long tail is now **audio output, release packaging, the debugger and the
+Vulkan/method-coverage tail** rather than more CPU codegen or host-GPU
+plumbing (present path, corpus breadth, input and save states all landed
+between 2026-10-20 and 2026-10-22). JIT/optimization remains a track,
 but it no longer leads (`docs/development-direction.md` §0).
 
 ### Performance campaign — xemu-class re-aim (2026-10-19)

diff --git a/tools/completion-graph/README.md b/tools/completion-graph/README.md
@@ -2,6 +2,8 @@
 
 A treemap of XGrid's code-completion, matching the ImplementationPlan
 assessment (see `ImplementationPlan.md` -> "Project completion assessment").
+Last refreshed **2026-10-21**: weighted **77.4%** (83.56 of 108 weight-points,
+24 phases).
 
 ## The canonical view: solid
 
